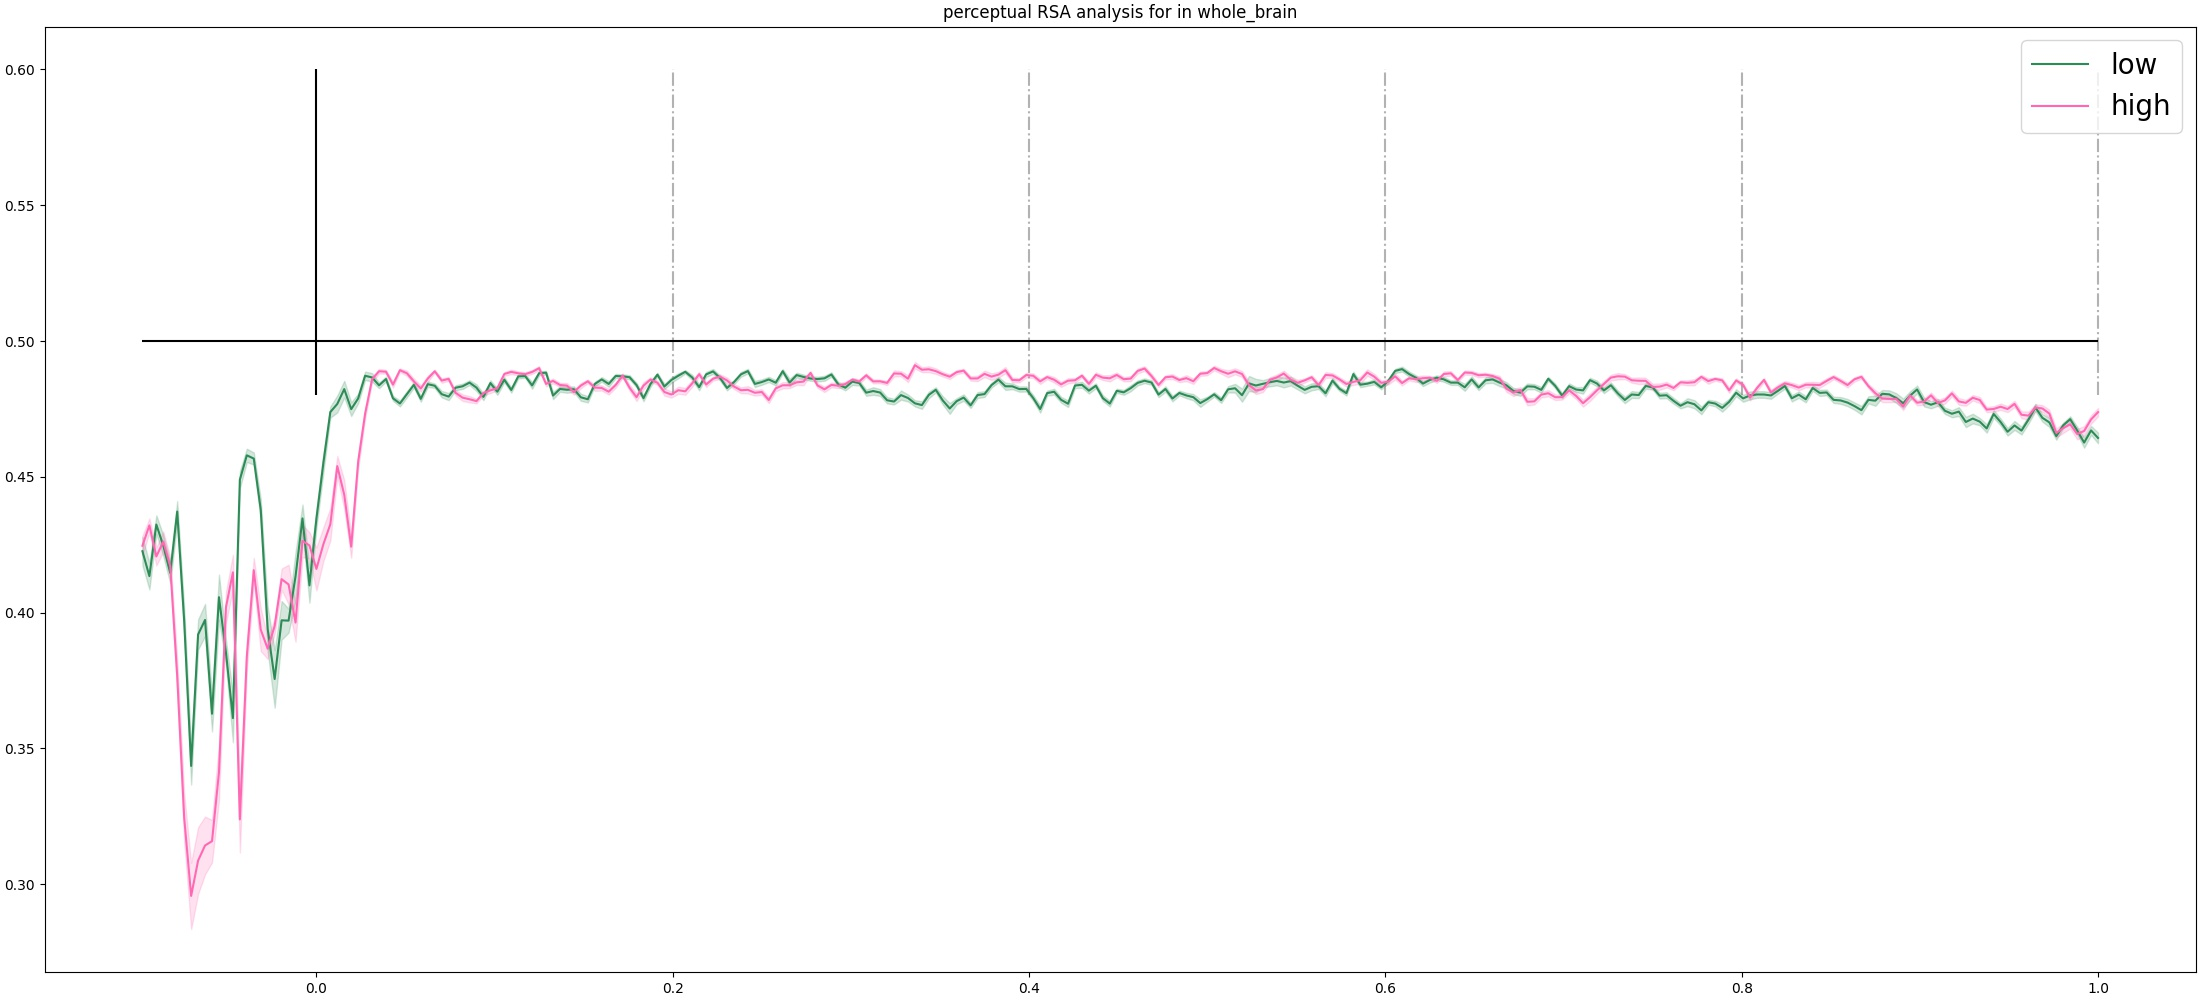
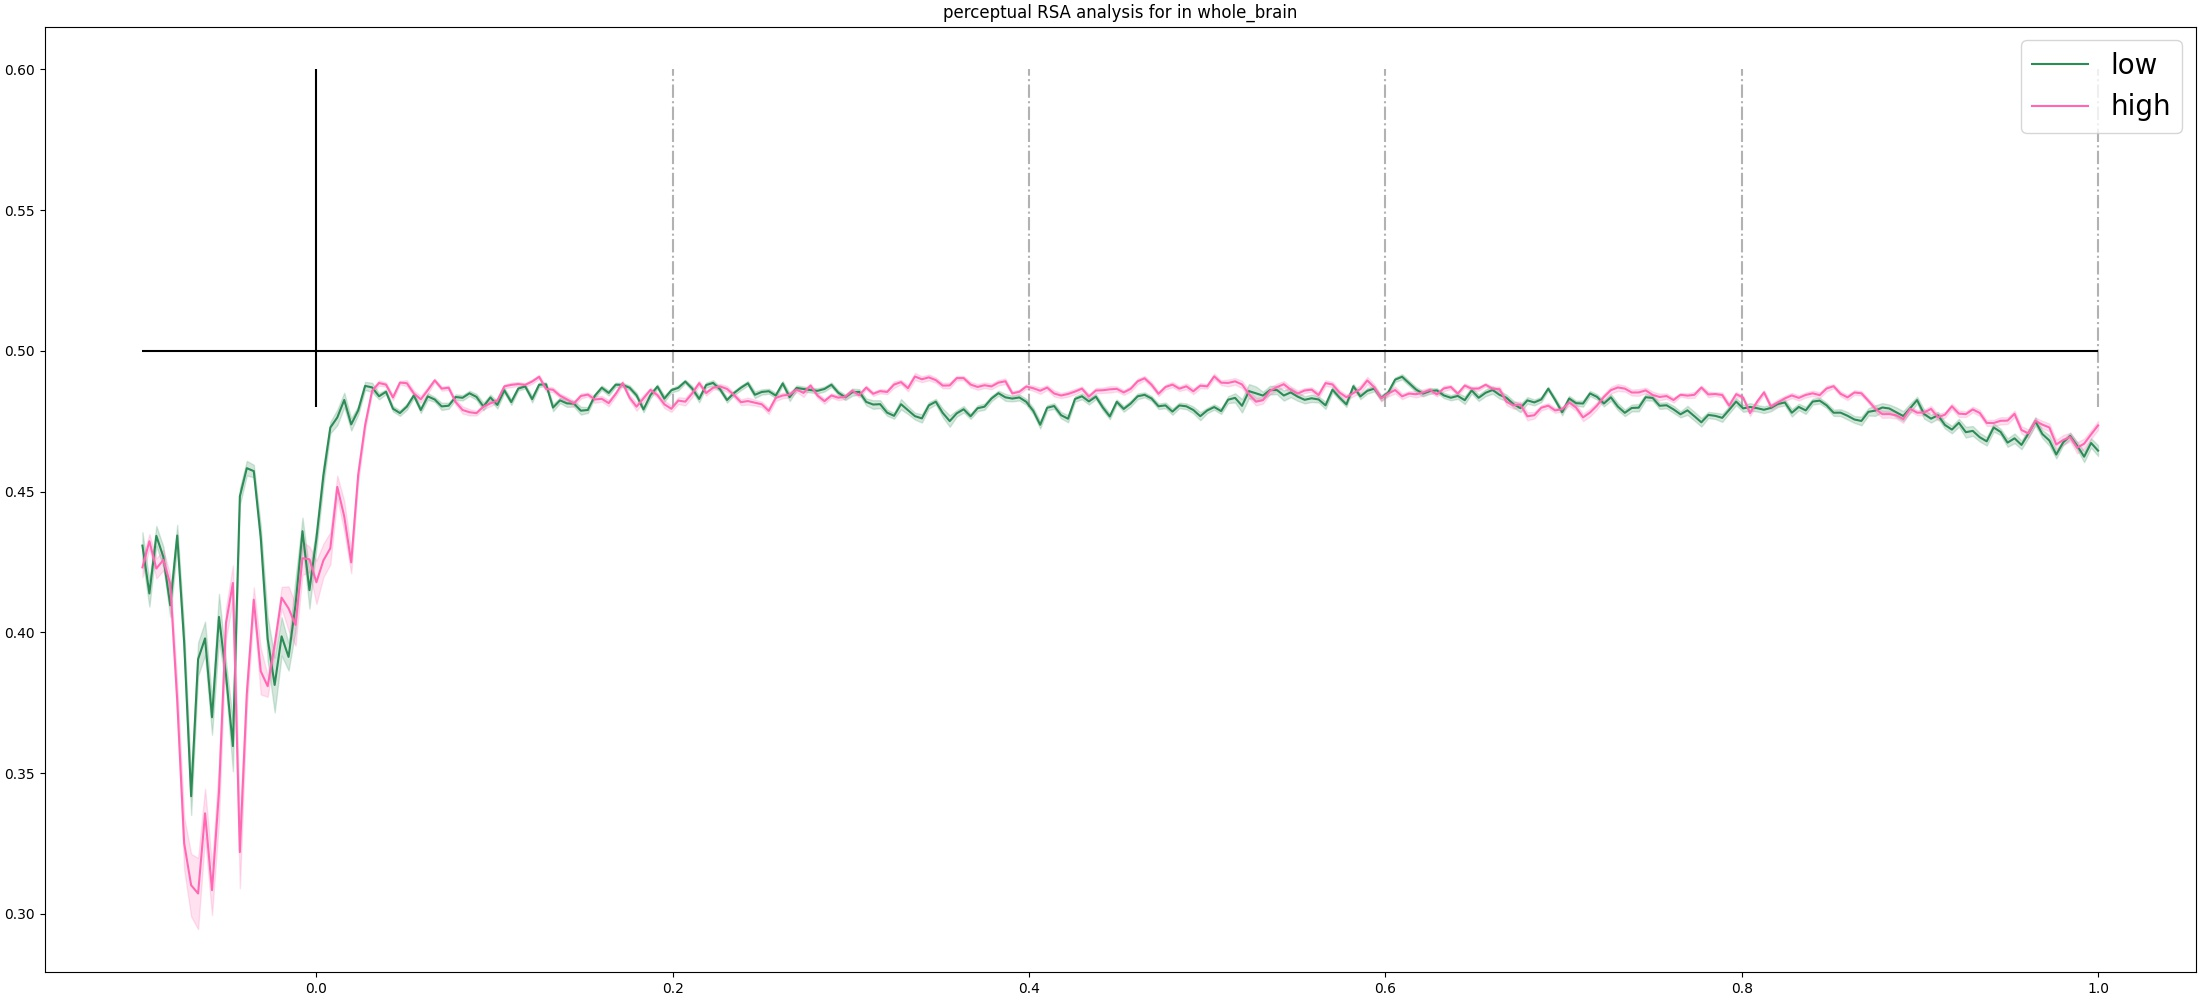
new plots

diff --git a/04_rsa_simple.py b/04_rsa_simple.py
@@ -43,24 +43,24 @@ def compute_corrs(t):
     return (t, corr)
 
 def compute_ranking(t):
-    #print([sector_name, elecs])
     t_data = {k : v[elecs, t] for k, v in erp_data.items()}
-    ### these are the test sets
     accuracies = list()
     for test_item, real_vec in t_data.items():
+
+        ### remove average activity
         #avg_data = numpy.average([v for k, v in t_data.items() if k!=test_item], axis=0)
         #current_data = {k : v-avg_data for k, v in t_data.items()}
-        #rsa_model = [similarities[model][tuple(sorted(c))] for c in combs]
-        #pred_one = numpy.average([current_data[w]*similarities[model][tuple(sorted([w, w_one]))] for w in t_data.keys() if w not in [w_one, w_two]], axis=0)
-        #pred = numpy.sum([current_data[w]*distances[model][tuple(sorted([w, test_item]))] for w in t_data.keys() if w!=test_item], axis=0)
-        pred = numpy.sum([t_data[w]*similarities[model][tuple(sorted([w, test_item]))] for w in t_data.keys() if w!=test_item], axis=0)
+        #pred = numpy.sum([current_data[w]*similarities[model][tuple(sorted([w, test_item]))] for w in t_data.keys() if w!=test_item], axis=0)
         #scores = {w : scipy.stats.pearsonr(erp, pred)[0] for w, erp in current_data.items()}
+
+        ### leaves ERPs untouched
+        pred = numpy.sum([t_data[w]*similarities[model][tuple(sorted([w, test_item]))] for w in t_data.keys() if w!=test_item], axis=0)
         scores = {w : scipy.stats.pearsonr(erp, pred)[0] for w, erp in t_data.items()}
+
+        ### sorting and looking at ranking
         sorted_w = [v[0] for v in sorted(scores.items(), key=lambda item : item[1], reverse=True)]
         rank = 1 - (sorted_w.index(test_item) / len(sorted_w))
         accuracies.append(rank)
-    #t_corrs = [1-scipy.stats.pearsonr(t_data[w_one], t_data[w_two])[0] for w_one, w_two in combs]
-    #corr = scipy.stats.pearsonr(rsa_model, t_corrs)[0]
     corr = numpy.average(accuracies)
     #print(corr)
     return (t, corr)
@@ -219,7 +219,7 @@ distances['perceptual'] = dict()
 for w_one, w_two in all_combs:
     vec_one = [norms[s][w_one] for s in senses]
     vec_two = [norms[s][w_two] for s in senses]
-    distances['perceptual'][(w_one, w_two)] = scipy.spatial.distance.euclidean(vec_one, vec_two)
+    distances['perceptual'][(w_one, w_two)] = 1 - scipy.stats.pearsonr(vec_one, vec_two)[0]
 ### levenshtein
 distances['levenshtein'] = dict()
 for w_one, w_two in all_combs:
